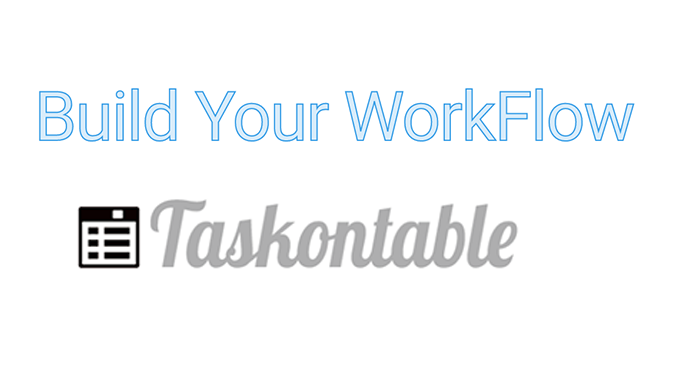
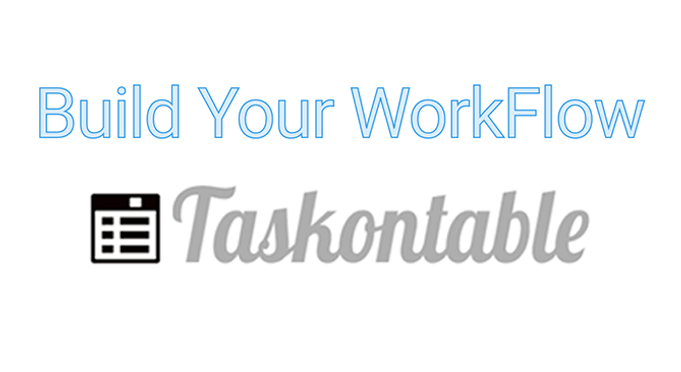
change ogp image

Changed region(s): [[0.0925, 0.4731, 0.8634, 0.7392], [0.0617, 0.207, 0.9559, 0.3844]]

diff --git a/public/index.html b/public/index.html
@@ -10,11 +10,11 @@
   <meta property="og:type" content="website">
   <meta property="og:description" content="毎日のワークフローを簡単に構築できるタスクマネージャー。タスクをシーケンシャルにすることで生産性を向上させ一日をスムーズに進行することができます。">
   <meta property="og:url" content="https://taskontable.com">
-  <meta property="og:image" content="https://user-images.githubusercontent.com/24843808/38101207-9a27b894-33ba-11e8-8764-3c9ba8c0517a.png">
+  <meta property="og:image" content="https://user-images.githubusercontent.com/24843808/38101684-ee94c75e-33bb-11e8-9d07-0f97730a2229.png">
   <meta property="og:site_name" content="Taskontable">
   <meta name="twitter:card" content="summary_large_image">
   <meta name="twitter:site" content="https://taskontable.com">
-  <meta name="twitter:image" content="https://user-images.githubusercontent.com/24843808/38101207-9a27b894-33ba-11e8-8764-3c9ba8c0517a.png" />
+  <meta name="twitter:image" content="https://user-images.githubusercontent.com/24843808/38101684-ee94c75e-33bb-11e8-9d07-0f97730a2229.png" />
   <meta name="twitter:title" content="Taskontable">
   <meta name="twitter:description" content="毎日のワークフローを簡単に構築できるタスクマネージャー。タスクをシーケンシャルにすることで生産性を向上させ一日をスムーズに進行することができます。">
   <!--
